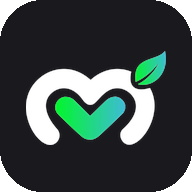
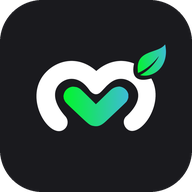
Landing: icona attuale dell'app (centrata) sopra Nutri i tuoi obiettivi e nelle notifiche

diff --git a/index.html b/index.html
@@ -9,7 +9,7 @@
 <meta name="color-scheme" content="dark">
 <meta property="og:title" content="MACRO'S — Tu scegli cosa mangiare. Noi lo cuciniamo sui tuoi macro.">
 <meta property="og:description" content="Un vero ristorante, con piatti cucinati al momento e personalizzati al grammo. Web app: si installa dal browser su iPhone, Android e computer.">
-<meta property="og:image" content="img/icon-192.png">
+<meta property="og:image" content="img/icon-192.png?v=2">
 <link rel="manifest" href="https://alexcuttaia.github.io/Macros/manifest.webmanifest">
 <link rel="icon" type="image/png" sizes="32x32" href="img/favicon-32.png">
 <link rel="apple-touch-icon" sizes="180x180" href="img/apple-touch-icon.png">
@@ -617,7 +617,7 @@ footer .foot-credit{flex-basis:100%;}   /* riga a sé, sotto © anno */
       <div class="cbar"><em>G</em><span><b style="--v:.07;background:var(--g)"></b></span><i class="num">8 g</i></div>
     </div></div>
     <div class="chip chip-b" data-depth=".35" aria-hidden="true"><div class="chip-in">
-      <img src="img/icon-192.png" alt="" width="40" height="40">
+      <img src="img/icon-192.png?v=2" alt="" width="40" height="40">
       <div><strong>In preparazione</strong><span>Il tuo pasto MACRO'S è in preparazione.</span></div>
       <small>ora</small>
     </div></div>
@@ -973,7 +973,7 @@ footer .foot-credit{flex-basis:100%;}   /* riga a sé, sotto © anno */
 
   <section class="final" id="final" aria-labelledby="final-t">
     <div class="wrap">
-      <img class="mark" id="final-mark" src="img/icon-192.png" alt="" width="76" height="76">
+      <img class="mark" id="final-mark" src="img/icon-192.png?v=2" alt="" width="76" height="76">
       <h2 class="rv" id="final-t">Nutri i tuoi obiettivi.</h2>
       <div class="hero-cta rv" style="--i:2">
         <a class="btn btn-brand" href="#installa" data-install>
@@ -1359,7 +1359,7 @@ footer .foot-credit{flex-basis:100%;}   /* riga a sé, sotto © anno */
     function card(x, when){
       const el = document.createElement('div');
       el.className = 'note'; el.setAttribute('role', 'listitem');
-      el.innerHTML = '<img src="img/icon-192.png" alt="" width="42" height="42"><div class="note-h"><b>MACRO\'S · ' + esc(x.c) + '</b><span>' + when + '</span></div><strong>' + esc(x.t) + '</strong><p>' + esc(x.b) + '</p>';
+      el.innerHTML = '<img src="img/icon-192.png?v=2" alt="" width="42" height="42"><div class="note-h"><b>MACRO\'S · ' + esc(x.c) + '</b><span>' + when + '</span></div><strong>' + esc(x.t) + '</strong><p>' + esc(x.b) + '</p>';
       return el;
     }
     // all'inizio tre notifiche già arrivate
